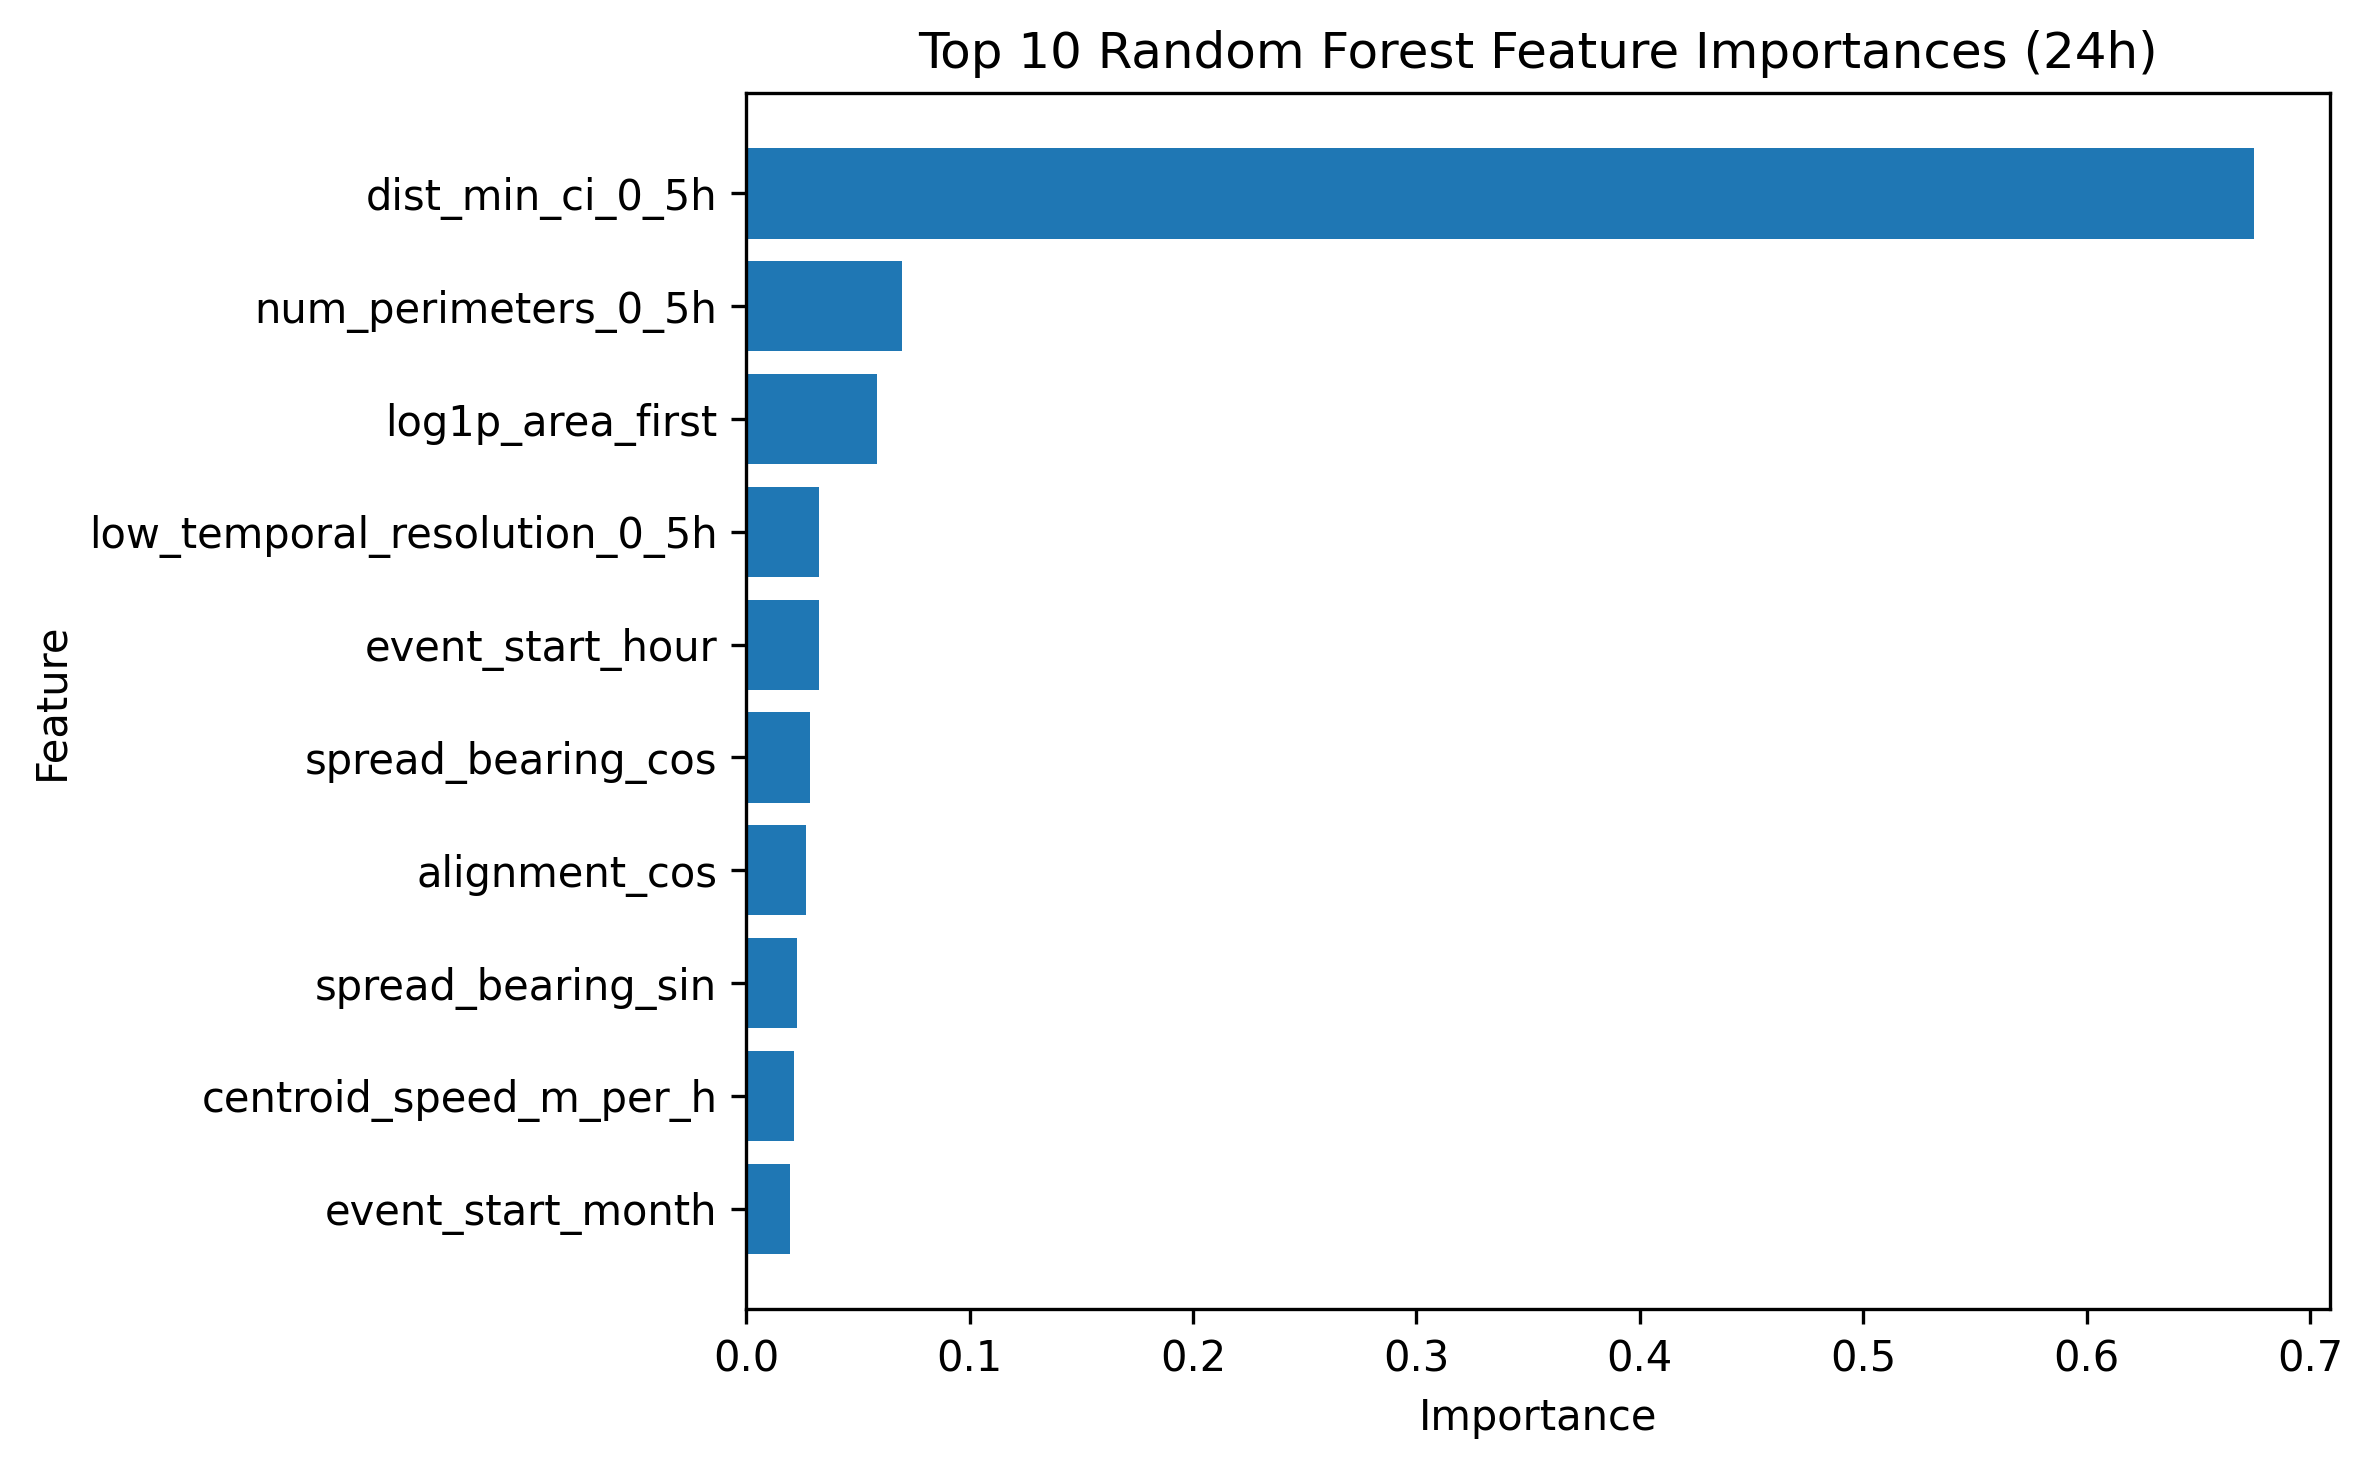
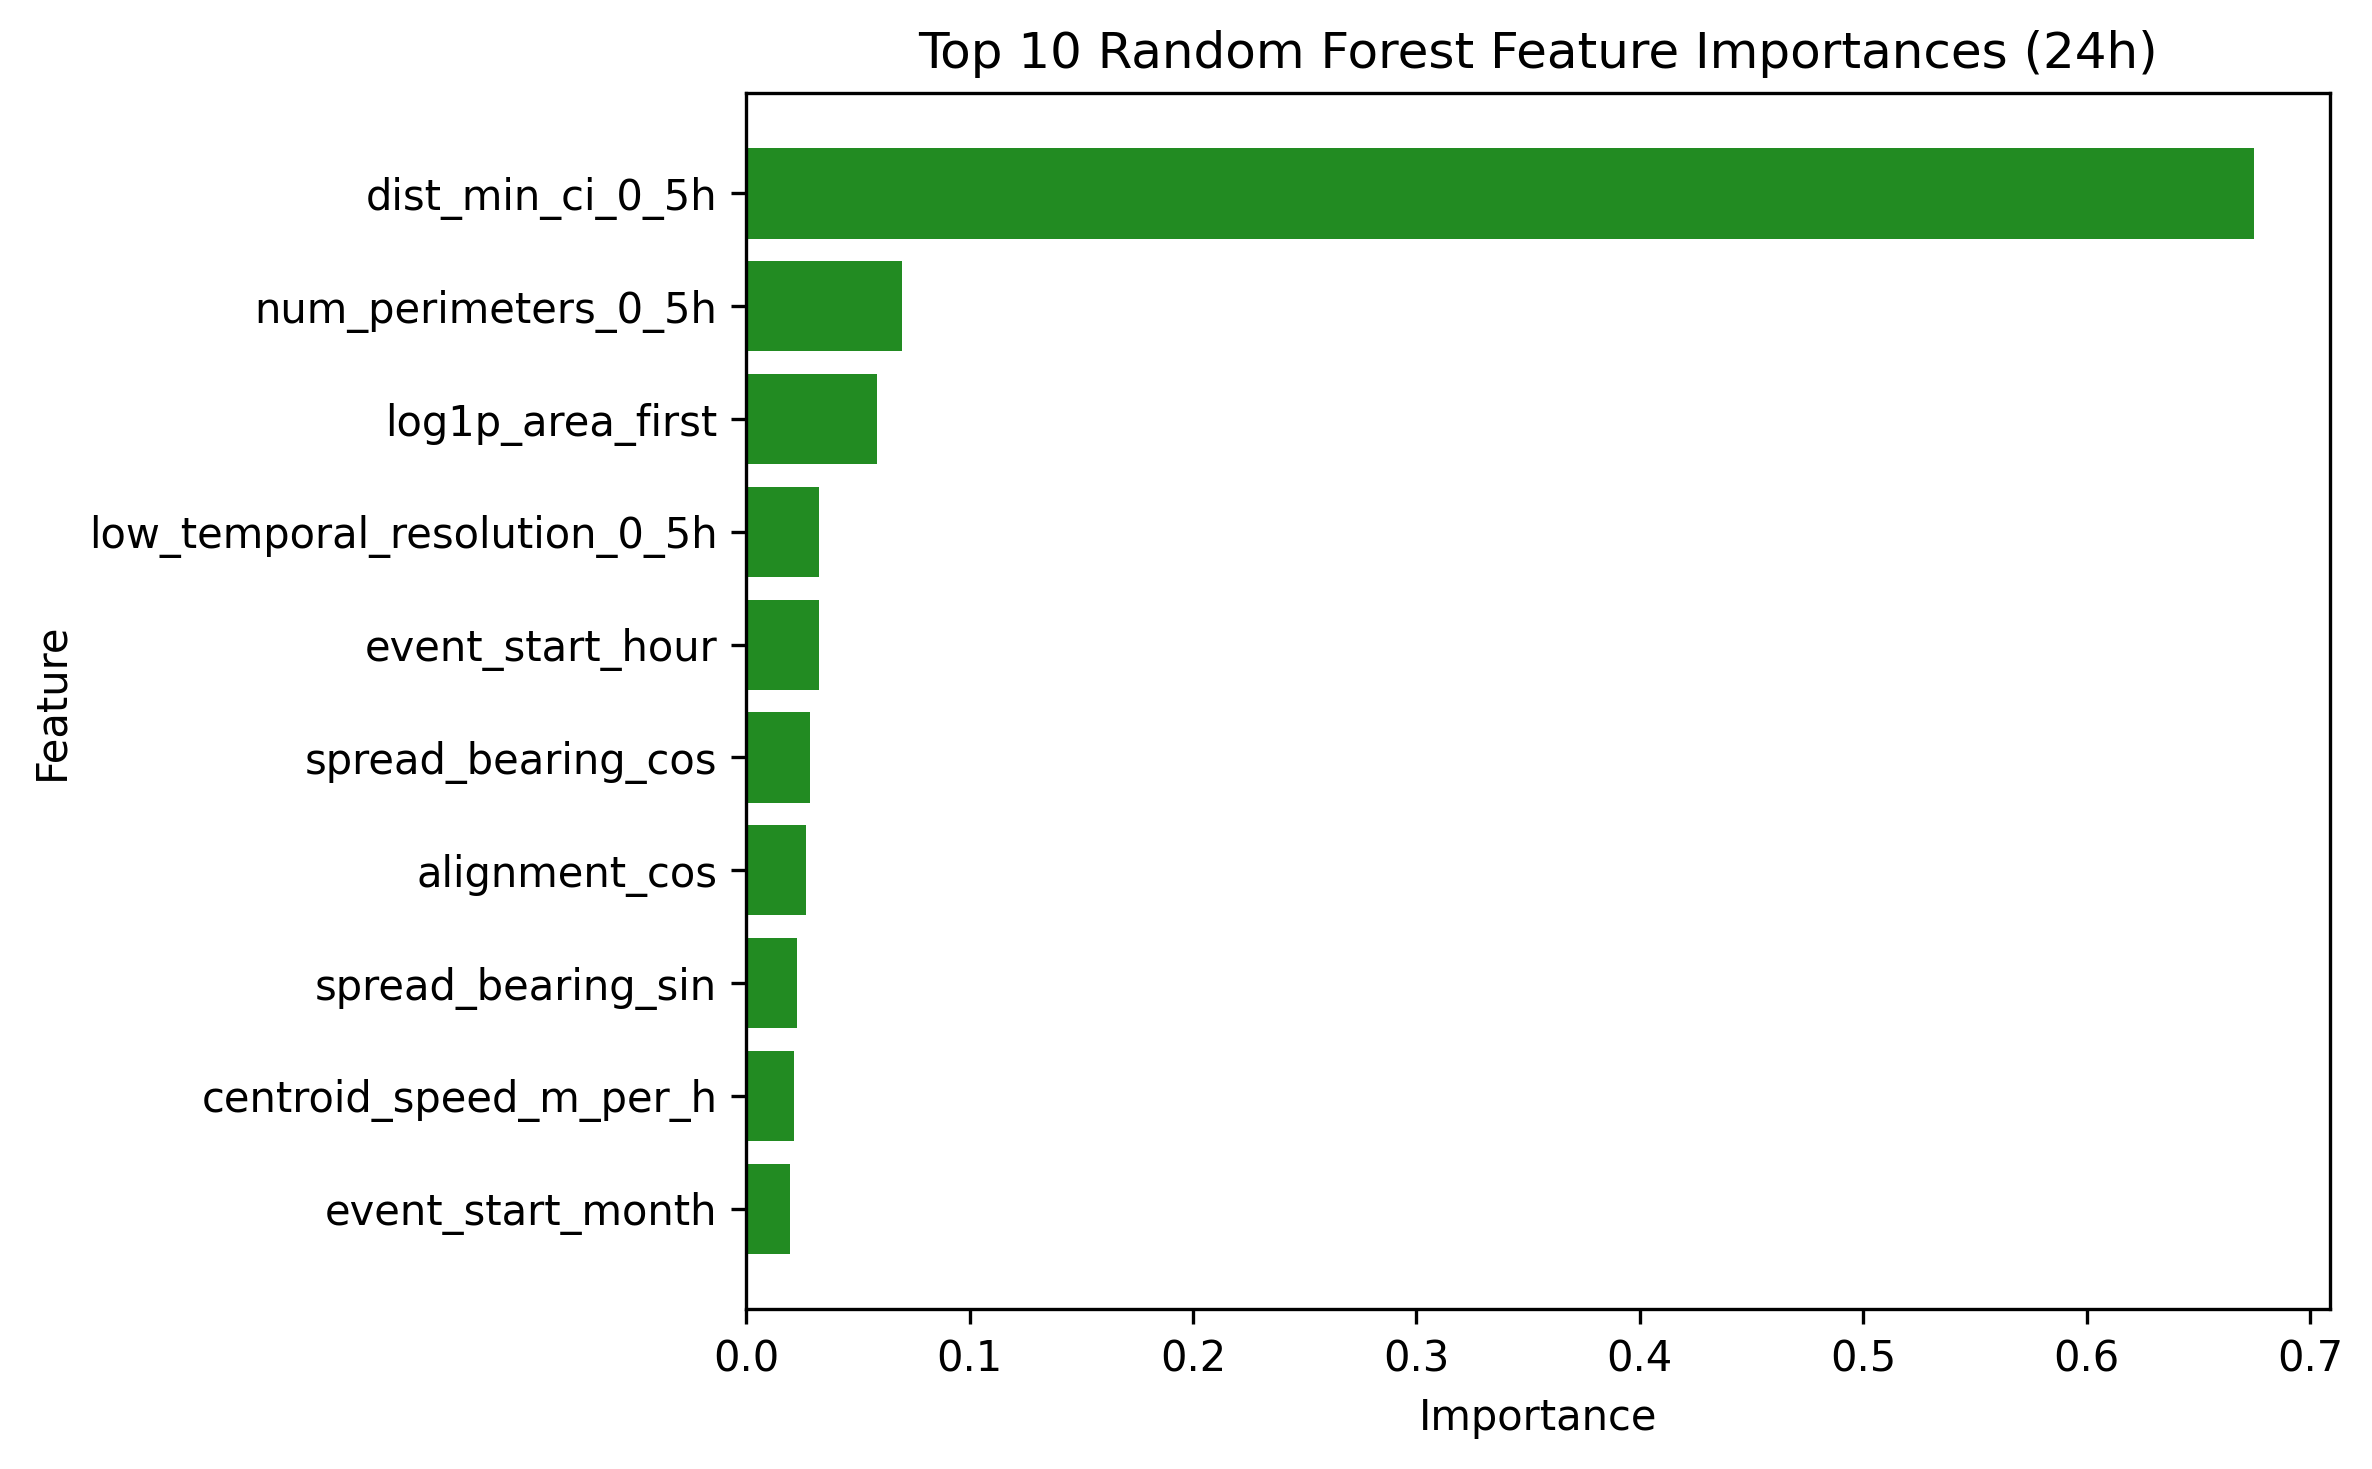
Add green color

Changed region(s): [[0.312, 0.0919, 0.9671, 0.8577]]

diff --git a/src/data_visualization.py b/src/data_visualization.py
@@ -17,7 +17,7 @@ def plot_target_balance(
     fig, ax = plt.subplots()
     for i, v in enumerate(positive_rates):
         ax.text(i, v + 0.01, f"{v:.1%}", ha="center")
-    ax.bar(labels, positive_rates)
+    ax.bar(labels, positive_rates, color="forestgreen")
     ax.set_title("Positive Class Rate Across Horizon")
     ax.set_xlabel("Prediction Horizon")
     ax.set_ylabel("Positive Rate")
@@ -342,7 +342,10 @@ def plot_random_forest_feature_importance(
     importance_df = importance_df.sort_values(
         by="importance", ascending=False).head(top_n)
     fig, ax = plt.subplots(figsize=(8, 5))
-    ax.barh(importance_df["feature"], importance_df["importance"])
+    ax.barh(
+        importance_df["feature"],
+        importance_df["importance"],
+        color="forestgreen")
     ax.invert_yaxis()
 
     ax.set_title(f"Top {top_n} Random Forest Feature Importances (24h)")
